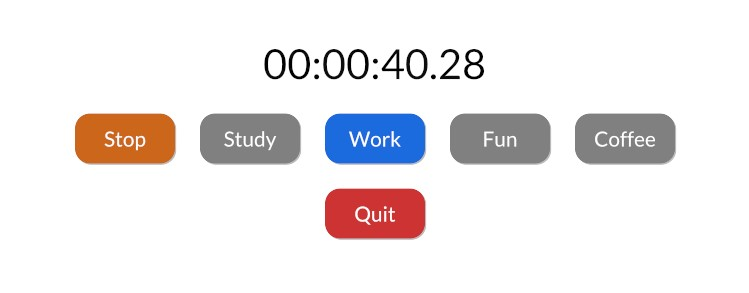
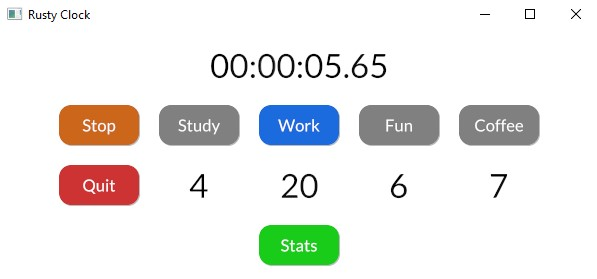
added image of new gui

diff --git a/ReadMe.md b/ReadMe.md
@@ -28,7 +28,8 @@ cargo run -- --gui
 - [ ] Notificar de y em y a perguntar o que se está a fazer
 - [x] Ter num nice gui :) probably tui-rs oops, icedrs afinal
 - [ ] web assembly
-
+- [ ] tests
+- [ ] sats on gui
 ## Ordem Tarefas
 
 - [x] cli
